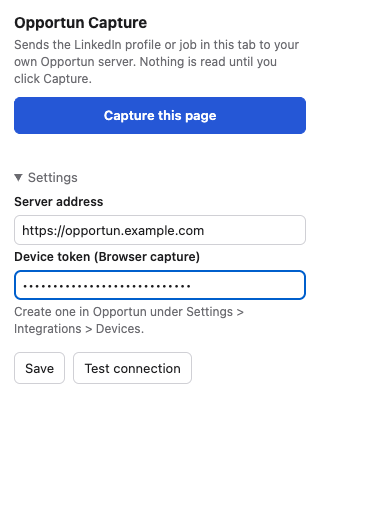
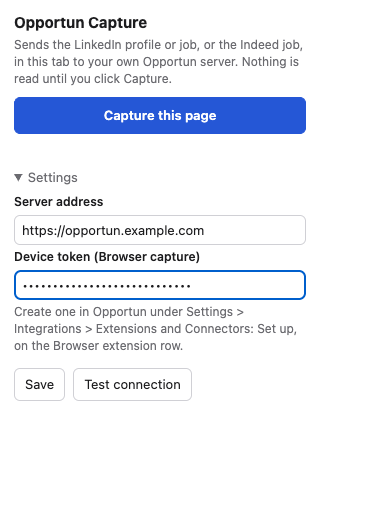
docs(guide): retake the extension popup after its text change (#123)
https://github.com/bgoleno/opportun/pull/106 changed the popup's intro (it
now names the Indeed job too) and its token hint (Settings > Integrations >
Extensions and Connectors, Set up on the Browser extension row). The image is
retaken from the extension built at main 80a2667, loaded into Chromium with
its popup page opened in a tab, made-up server address and token.

The paragraph above the image said the extension sends only a LinkedIn
profile or job page; it sends an Indeed job too, as the popup now says.

Closes #123

Changed region(s): [[0.0289, 0.6154, 0.7816, 0.7692], [0.0289, 0.0615, 0.7816, 0.1846]]

diff --git a/docs/guide/discovery.md b/docs/guide/discovery.md
@@ -124,8 +124,8 @@ _A LinkedIn link is refused before anything is fetched; paste the text or use th
 ### The capture extension
 
 The **Opportun Capture** extension (Chrome, Chromium browsers and Firefox 128+) sends the
-LinkedIn profile or job page you are looking at to your server, only when you click
-**Capture this page**. A captured job becomes an opportunity at **Interested** and does not
+LinkedIn profile or job, or the Indeed job, you are looking at to your server, only when you
+click **Capture this page**. A captured job becomes an opportunity at **Interested** and does not
 pass through this queue: capturing one is how you say you want it. If the job is already
 sitting here as a lead from an alert email, that lead is completed and accepted rather than
 duplicated. Profiles become contacts (see [Network](network.md)). The
